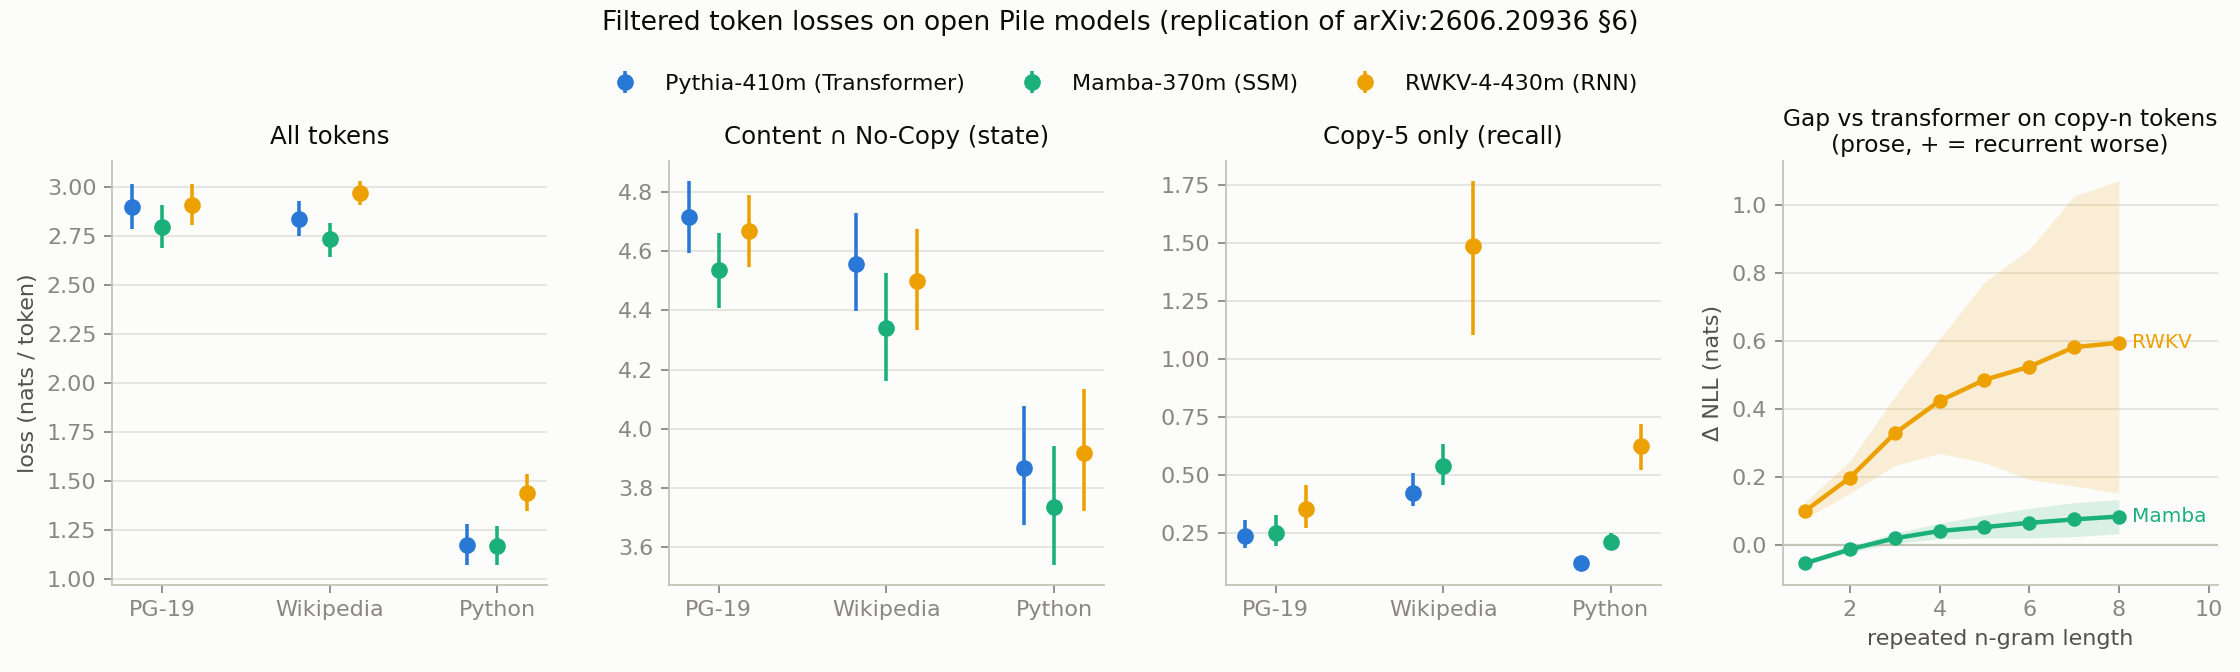
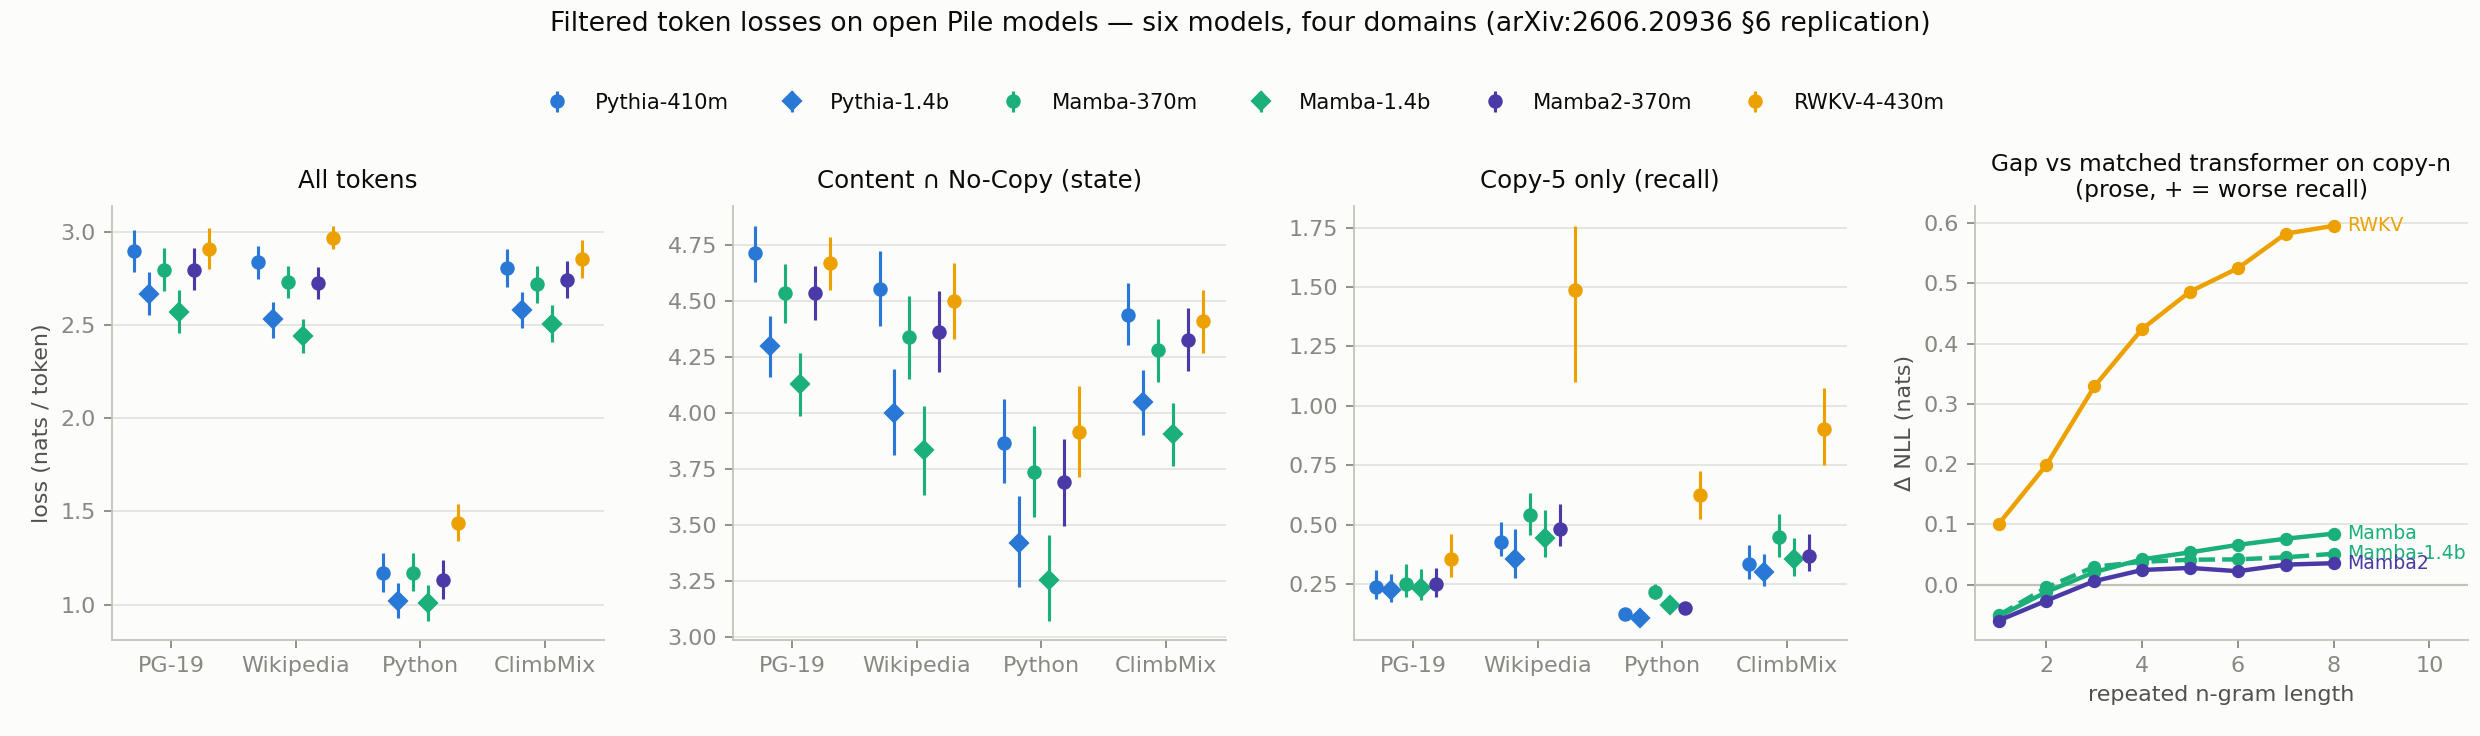
Update fig7 replication figure: six models, four domains

diff --git a/plot_fig7_v2.py b/plot_fig7_v2.py
@@ -1,0 +1,113 @@
+"""Updated Fig-7-style replication figure: six models, four domains.
+
+Color encodes architecture family; marker shape encodes size tier
+(circle = 130-430m tier, diamond = 1.4b tier).
+"""
+
+import json
+
+import numpy as np
+import matplotlib
+matplotlib.use("Agg")
+import matplotlib.pyplot as plt
+
+import analyze_large as al
+from analyze import filtered_stats
+from build_data import copy_masks  # noqa: F401
+from analyze import copy_n_mask
+
+SURFACE, INK, MUTED = "#fcfcfb", "#0b0b0b", "#898781"
+GRID, BASE = "#e1e0d9", "#c3c2b7"
+FAM = {"transformer": "#2a78d6", "mamba1": "#1baf7a", "rwkv": "#eda100",
+       "mamba2": "#4a3aa7"}
+
+MODELS = [
+    ("pythia",   "Pythia-410m",  FAM["transformer"], "o"),
+    ("pythia14", "Pythia-1.4b",  FAM["transformer"], "D"),
+    ("mamba",    "Mamba-370m",   FAM["mamba1"], "o"),
+    ("mamba14",  "Mamba-1.4b",   FAM["mamba1"], "D"),
+    ("mamba2",   "Mamba2-370m",  FAM["mamba2"], "o"),
+    ("rwkv",     "RWKV-4-430m",  FAM["rwkv"], "o"),
+]
+DOMAINS = [("pg19", "PG-19"), ("wiki", "Wikipedia"), ("python", "Python"),
+           ("climbmix", "ClimbMix")]
+FILTERS = [("ALL", "All tokens"), ("STATE", "Content ∩ No-Copy (state)"),
+           ("COPY5", "Copy-5 only (recall)")]
+
+plt.rcParams.update({
+    "font.family": "sans-serif", "text.color": INK,
+    "axes.edgecolor": BASE, "axes.labelcolor": "#52514e",
+    "xtick.color": MUTED, "ytick.color": MUTED,
+    "axes.facecolor": SURFACE, "figure.facecolor": SURFACE, "font.size": 10,
+})
+
+nll = {k: al.load_nll(k) for k, *_ in MODELS}
+masks = {d: al.masks_for(d)[0] for d, _ in DOMAINS}
+
+fig, axes = plt.subplots(1, 4, figsize=(15.5, 4.6))
+fig.subplots_adjust(left=0.045, right=0.995, top=0.72, bottom=0.13, wspace=0.26)
+
+x = np.arange(len(DOMAINS))
+offs = np.linspace(-0.3, 0.3, len(MODELS))
+for ax, (fkey, ftitle) in zip(axes[:3], FILTERS):
+    for (key, label, color, marker), off in zip(MODELS, offs):
+        means, los, his = [], [], []
+        for d, _ in DOMAINS:
+            mean, lo, hi, _ = filtered_stats(nll[key][d], masks[d][fkey])
+            means.append(mean); los.append(lo); his.append(hi)
+        ax.errorbar(x + off, means,
+                    yerr=[np.subtract(means, los), np.subtract(his, means)],
+                    fmt=marker, color=color, markersize=5.5, capsize=0,
+                    elinewidth=1.4, label=label)
+    ax.set_title(ftitle, fontsize=11, color=INK, pad=8)
+    ax.set_xticks(x, [n for _, n in DOMAINS])
+    ax.set_ylabel("loss (nats / token)" if fkey == "ALL" else "")
+    ax.grid(axis="y", color=GRID, linewidth=0.7)
+    ax.set_axisbelow(True)
+    for s in ["top", "right"]:
+        ax.spines[s].set_visible(False)
+
+# panel 4: copy-n paired gap vs matched transformer, prose pooled
+ax = axes[3]
+data = np.load("eval_data.npz")
+ns = list(range(1, 9))
+cmasks = {}
+for dom in ["pg19", "wiki"]:
+    ids = data[f"{dom}_ids"]
+    cmasks[dom] = {n: np.stack([copy_n_mask(r.tolist(), n) for r in ids])[:, 1:]
+                   for n in ns}
+gap_series = [("mamba", "pythia", FAM["mamba1"], "-", "Mamba-370m"),
+              ("mamba14", "pythia14", FAM["mamba1"], "--", "Mamba-1.4b"),
+              ("mamba2", "pythia", FAM["mamba2"], "-", "Mamba2-370m"),
+              ("rwkv", "pythia", FAM["rwkv"], "-", "RWKV-4-430m")]
+ax.axhline(0, color=BASE, linewidth=1)
+for cand, anchor, color, ls, label in gap_series:
+    ys = []
+    for n in ns:
+        num = den = 0.0
+        for dom in ["pg19", "wiki"]:
+            g = nll[cand][dom] - nll[anchor][dom]
+            sel = cmasks[dom][n]
+            num += (g * sel).sum(); den += sel.sum()
+        ys.append(num / den)
+    ax.plot(ns, ys, ls, marker="o", color=color, linewidth=2, markersize=5)
+    ax.annotate(label.split("-")[0] + ("-1.4b" if "1.4b" in label else ""),
+                (ns[-1], ys[-1]), xytext=(6, 0), textcoords="offset points",
+                color=color, fontsize=8.5, va="center")
+ax.set_title("Gap vs matched transformer on copy-n\n(prose, + = worse recall)",
+             fontsize=10.5, color=INK, pad=4)
+ax.set_xlabel("repeated n-gram length")
+ax.set_ylabel("Δ NLL (nats)")
+ax.set_xlim(0.5, 10.8)
+ax.grid(axis="y", color=GRID, linewidth=0.7)
+ax.set_axisbelow(True)
+for s in ["top", "right"]:
+    ax.spines[s].set_visible(False)
+
+handles, labels = axes[0].get_legend_handles_labels()
+fig.legend(handles, labels, loc="upper center", ncol=6, frameon=False,
+           bbox_to_anchor=(0.5, 0.90), fontsize=9.5)
+fig.suptitle("Filtered token losses on open Pile models — six models, four domains "
+             "(arXiv:2606.20936 §6 replication)", y=0.985, fontsize=12, color=INK)
+fig.savefig("fig7_repro.png", dpi=160)
+print("saved fig7_repro.png")
